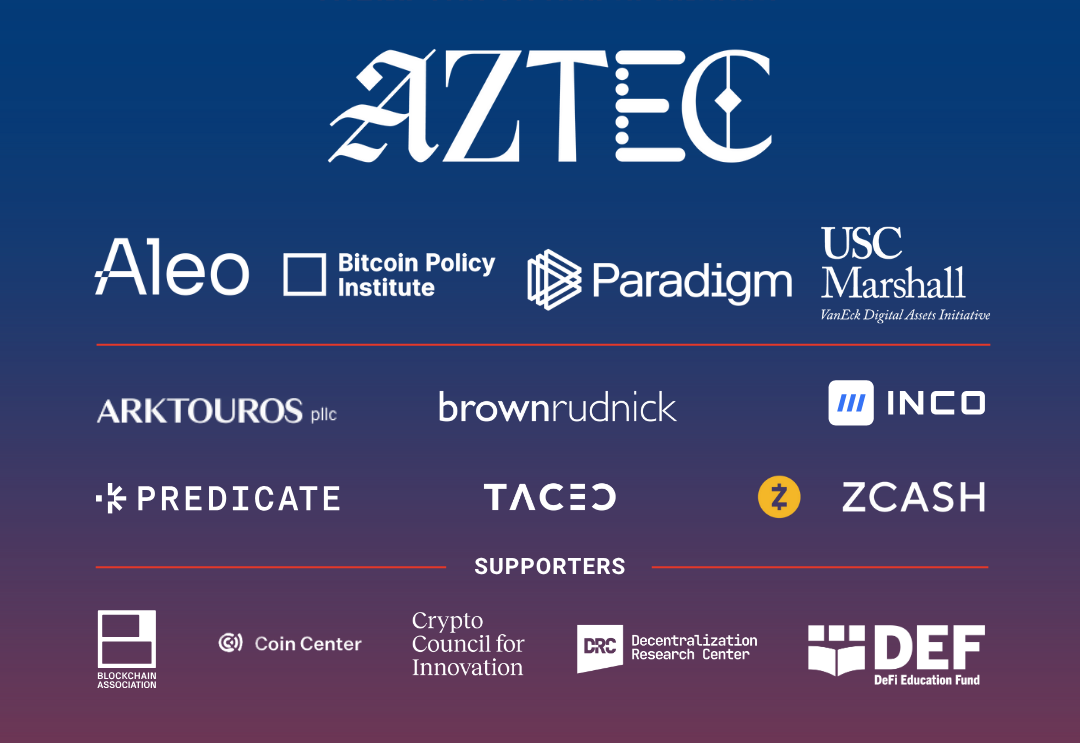
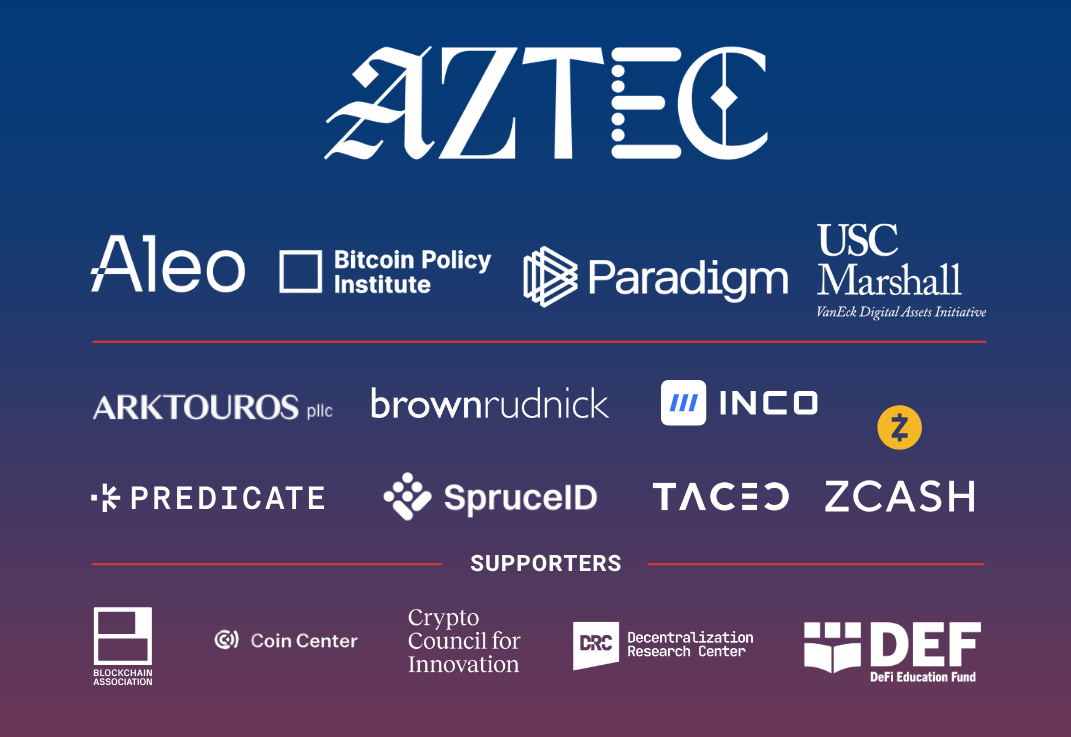
updated sponsors

diff --git a/index.html b/index.html
@@ -323,15 +323,17 @@
       <a class="sponsor-hotspot" href="https://www.arktouros.co/" target="_blank" rel="noopener" aria-label="Arktouros PLLC"
          style="left:9%;top:51%;width:24%;height:9%" title="Arktouros pllc"></a>
       <a class="sponsor-hotspot" href="https://brownrudnick.com/" target="_blank" rel="noopener" aria-label="Brown Rudnick"
-         style="left:41%;top:51%;width:22%;height:9%" title="Brown Rudnick"></a>
+         style="left:35%;top:51%;width:22%;height:9%" title="Brown Rudnick"></a>
       <a class="sponsor-hotspot" href="https://www.inco.org/" target="_blank" rel="noopener" aria-label="INCO"
-         style="left:75%;top:49%;width:16%;height:10.5%" title="INCO"></a>
+         style="left:60%;top:49%;width:16%;height:10.5%" title="INCO"></a>
       <a class="sponsor-hotspot" href="https://predicate.io/" target="_blank" rel="noopener" aria-label="Predicate"
          style="left:9%;top:62%;width:24%;height:10.5%" title="Predicate"></a>
+		<a class="sponsor-hotspot" href="https://www.taceo.io/" target="_blank" rel="noopener" aria-label="SpruceID"
+         style="left:37%;top:62%;width:19%;height:10.5%" title="SpruceID"></a>		
 		<a class="sponsor-hotspot" href="https://www.taceo.io/" target="_blank" rel="noopener" aria-label="TACEO"
-         style="left:45%;top:62%;width:12%;height:10.5%" title="TACEO"></a>
+         style="left:60%;top:62%;width:13%;height:10.5%" title="TACEO"></a>
 	    <a class="sponsor-hotspot" href="https://z.cash/" target="_blank" rel="noopener" aria-label="Zcash"
-         style="left:68%;top:62%;width:25%;height:10.5%" title="Zcash"></a>		
+         style="left:76%;top:53%;width:15%;height:20%" title="Zcash"></a>		
     <!-- Supporters: DRC, DEF, Coin Center, Crypto Council for Innovation -->
       <a class="sponsor-hotspot" href="https://theblockchainassociation.org/" target="_blank" rel="noopener" aria-label="Blockchain Association"
          style="left:8%;top:82.2%;width:10%;height:12%" title="Blockchain Association"></a>
